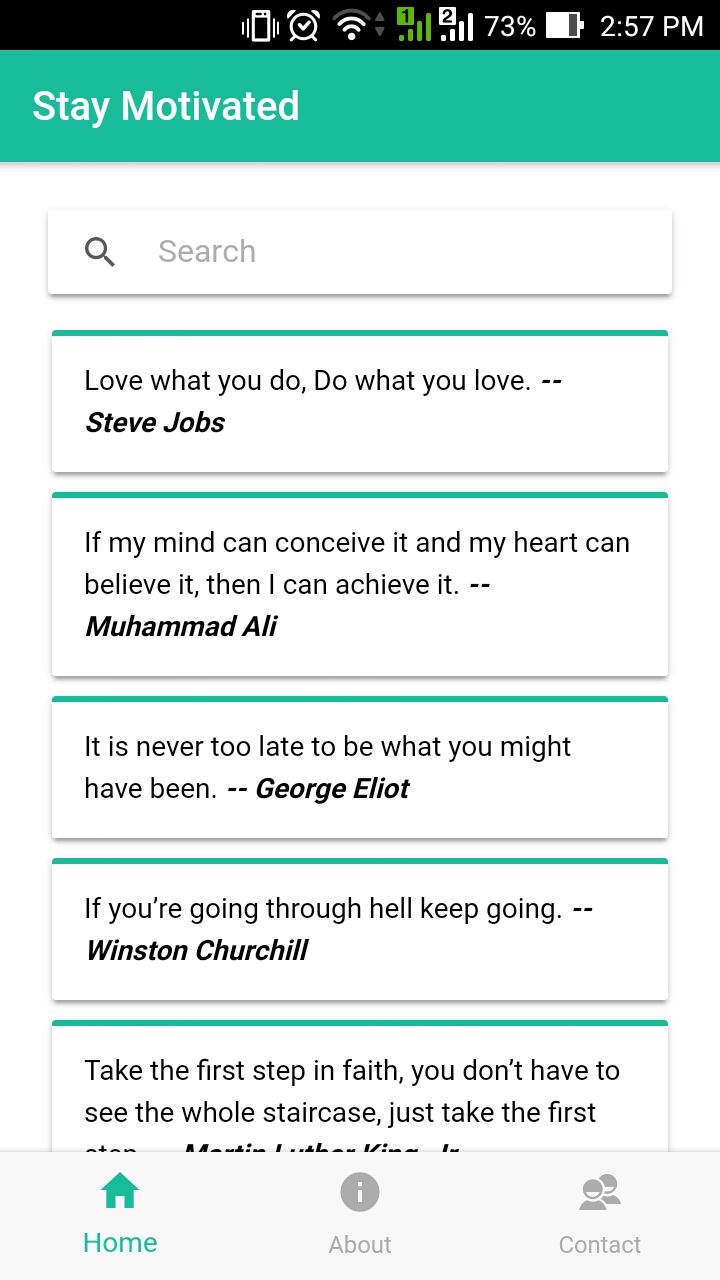
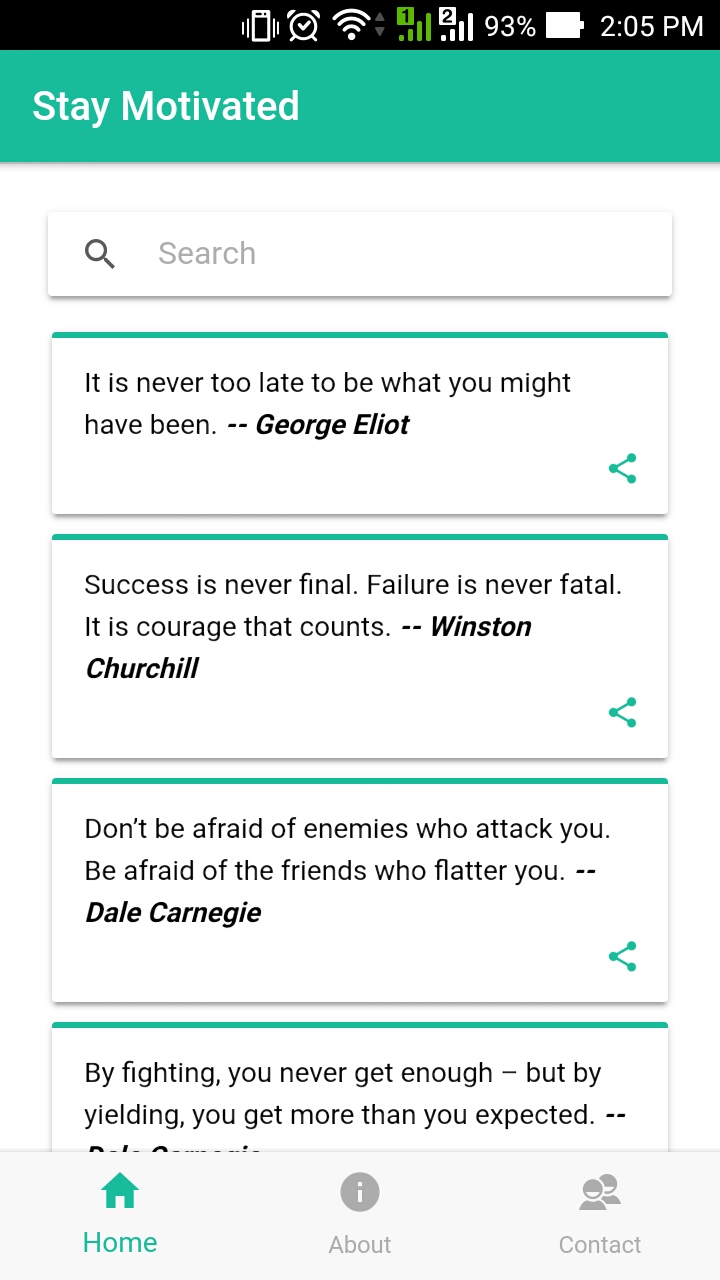
Add social sharing of qoutes option

diff --git a/app/pages/home/home.ts b/app/pages/home/home.ts
@@ -1,5 +1,6 @@
 import {Component, OnInit} from '@angular/core';
 import {NavController} from 'ionic-angular';
+import { SocialSharing } from 'ionic-native';
 import * as _ from 'lodash';
 
 import { Qoute } from './qoute';
@@ -48,5 +49,13 @@ export class HomePage implements OnInit {
 
   trackByQoutesId(index: number, qoute: Qoute) {
     return qoute.id;
+  }
+
+  openSharingOptions(qoute) {
+    SocialSharing.share(qoute.title +' - '+ qoute.author, null, null, null).then(() => {
+      // Success
+    }).catch(() => {
+      // Error!
+    });
   }
 }

diff --git a/app/pages/home/home.html b/app/pages/home/home.html
@@ -16,5 +16,12 @@
        {{ qoute.title }}
        <i> <b>-- {{ qoute.author }} </b></i>
     </ion-card-content>
+    <ion-row no-padding class="removeMargin">
+      <ion-col text-right>
+        <button clear small (click)="openSharingOptions(qoute)">
+          <ion-icon name='share'></ion-icon>
+        </button>
+      </ion-col>
+    </ion-row>
   </ion-card>
 </ion-content>

diff --git a/app/pages/home/home.scss b/app/pages/home/home.scss
@@ -4,3 +4,7 @@
 .card-top {
   border-top: 3px solid #1abc9c;
 }
+
+.removeMargin {
+  margin-top: -25px;
+}
